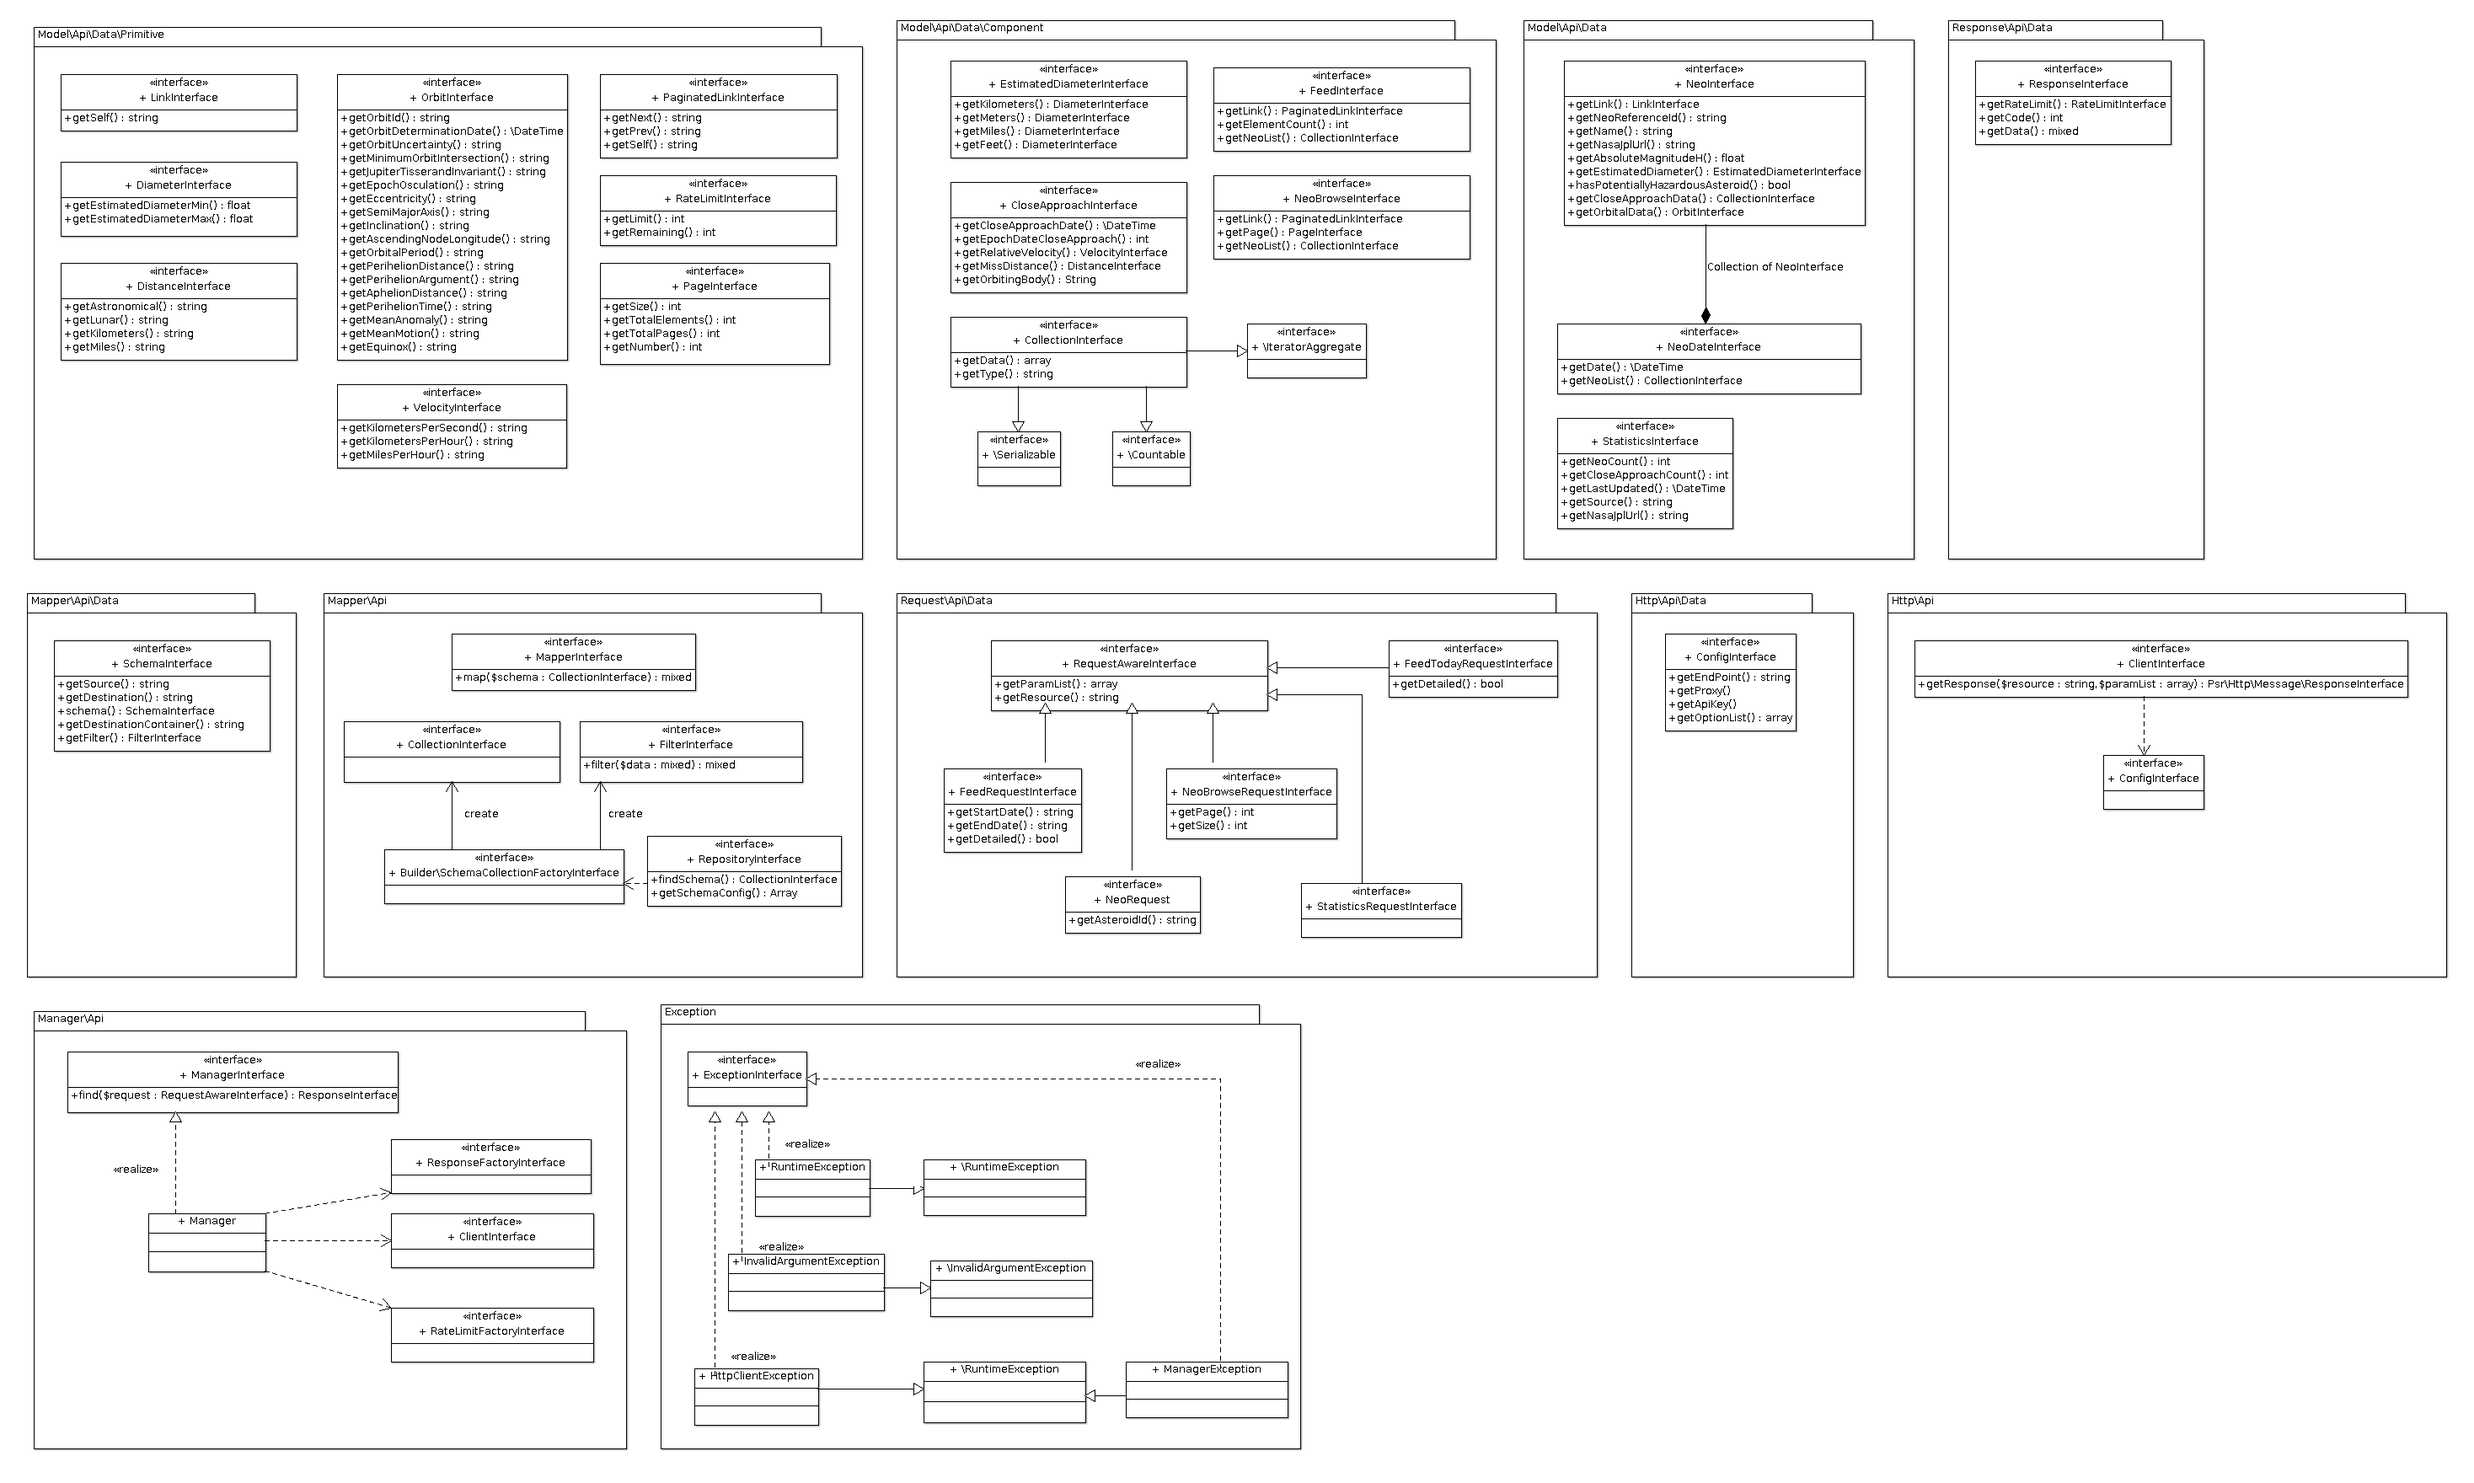
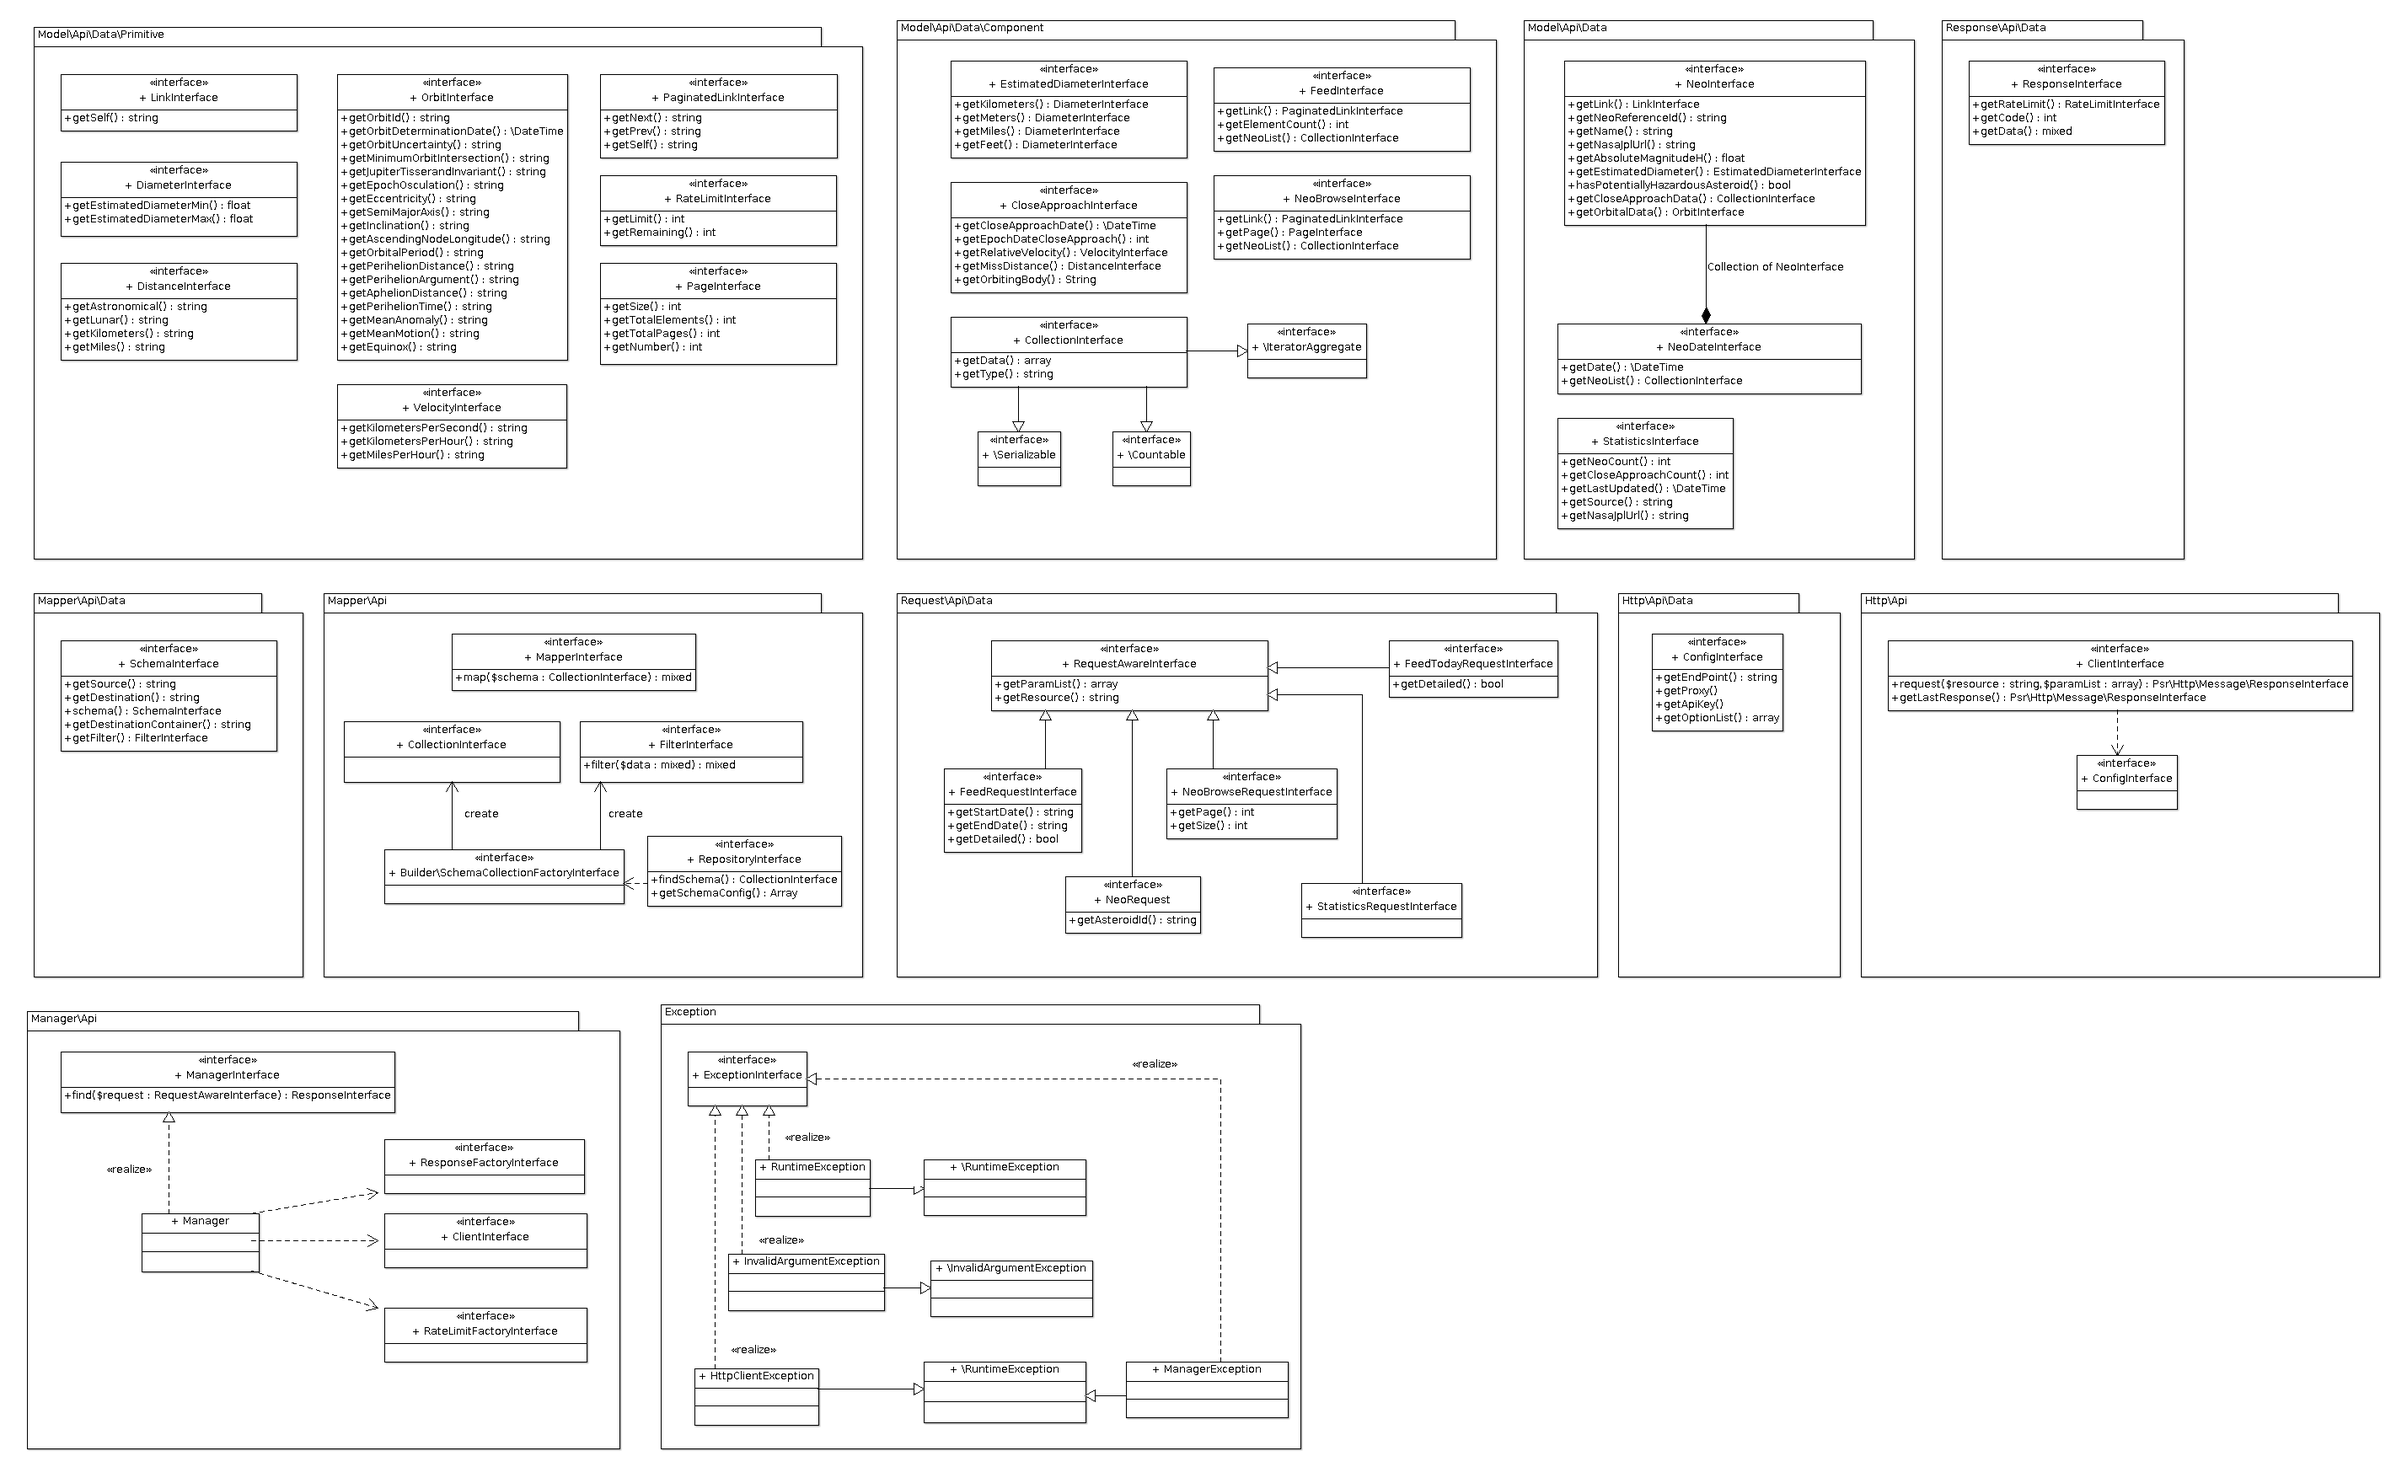
Added gelLastResponse to Client

diff --git a/src/Http/Client.php b/src/Http/Client.php
@@ -13,6 +13,7 @@ use Picamator\NeoWsClient\Exception\HttpClientException;
 use Picamator\NeoWsClient\Http\Api\ClientInterface;
 use Picamator\NeoWsClient\Http\Api\Data\ConfigInterface;
 use GuzzleHttp\ClientInterface as GuzzleHttpClientInterface;
+use Psr\Http\Message\ResponseInterface;
 
 /**
  * Client, it's deliberately mark final to encourage composition
@@ -28,6 +29,11 @@ final class Client implements ClientInterface
      * @var GuzzleHttpClientInterface
      */
     private $client;
+
+    /**
+     * @var ResponseInterface
+     */
+    private $response;
 
     /**
      * @param ConfigInterface $config
@@ -56,10 +62,9 @@ final class Client implements ClientInterface
         // catch 3-rd party exception
         try {
             /** @var \Psr\Http\Message\ResponseInterface $response */
-            $response = $this->client->request('get', $url);
-
+            $this->response = $this->client->request('get', $url);
         } catch (GuzzleHttpClientException $e) {
-            return $e->getResponse();
+            $this->response = $e->getResponse();
         } catch(BadResponseException $e) {
             throw new HttpClientException('Processing 3-rd party exception', 0, $e);
         } catch(ConnectException $e) {
@@ -76,6 +81,16 @@ final class Client implements ClientInterface
             throw new HttpClientException('Processing 3-rd party exception', 0, $e);
         }
 
-        return $response;
+        return $this->response;
+    }
+
+    /**
+     * @inheritDoc
+     *
+     * @codeCoverageIgnore
+     */
+    public function getLastResponse()
+    {
+        return $this->response;
     }
 }

diff --git a/src/Http/Api/ClientInterface.php b/src/Http/Api/ClientInterface.php
@@ -20,4 +20,11 @@ interface ClientInterface
      * @throws HttpClientException
      */
     public function request($resource, array $paramList = []);
+
+    /**
+     * Get last response
+     *
+     * @return ResponseInterface | null
+     */
+    public function getLastResponse();
 }
